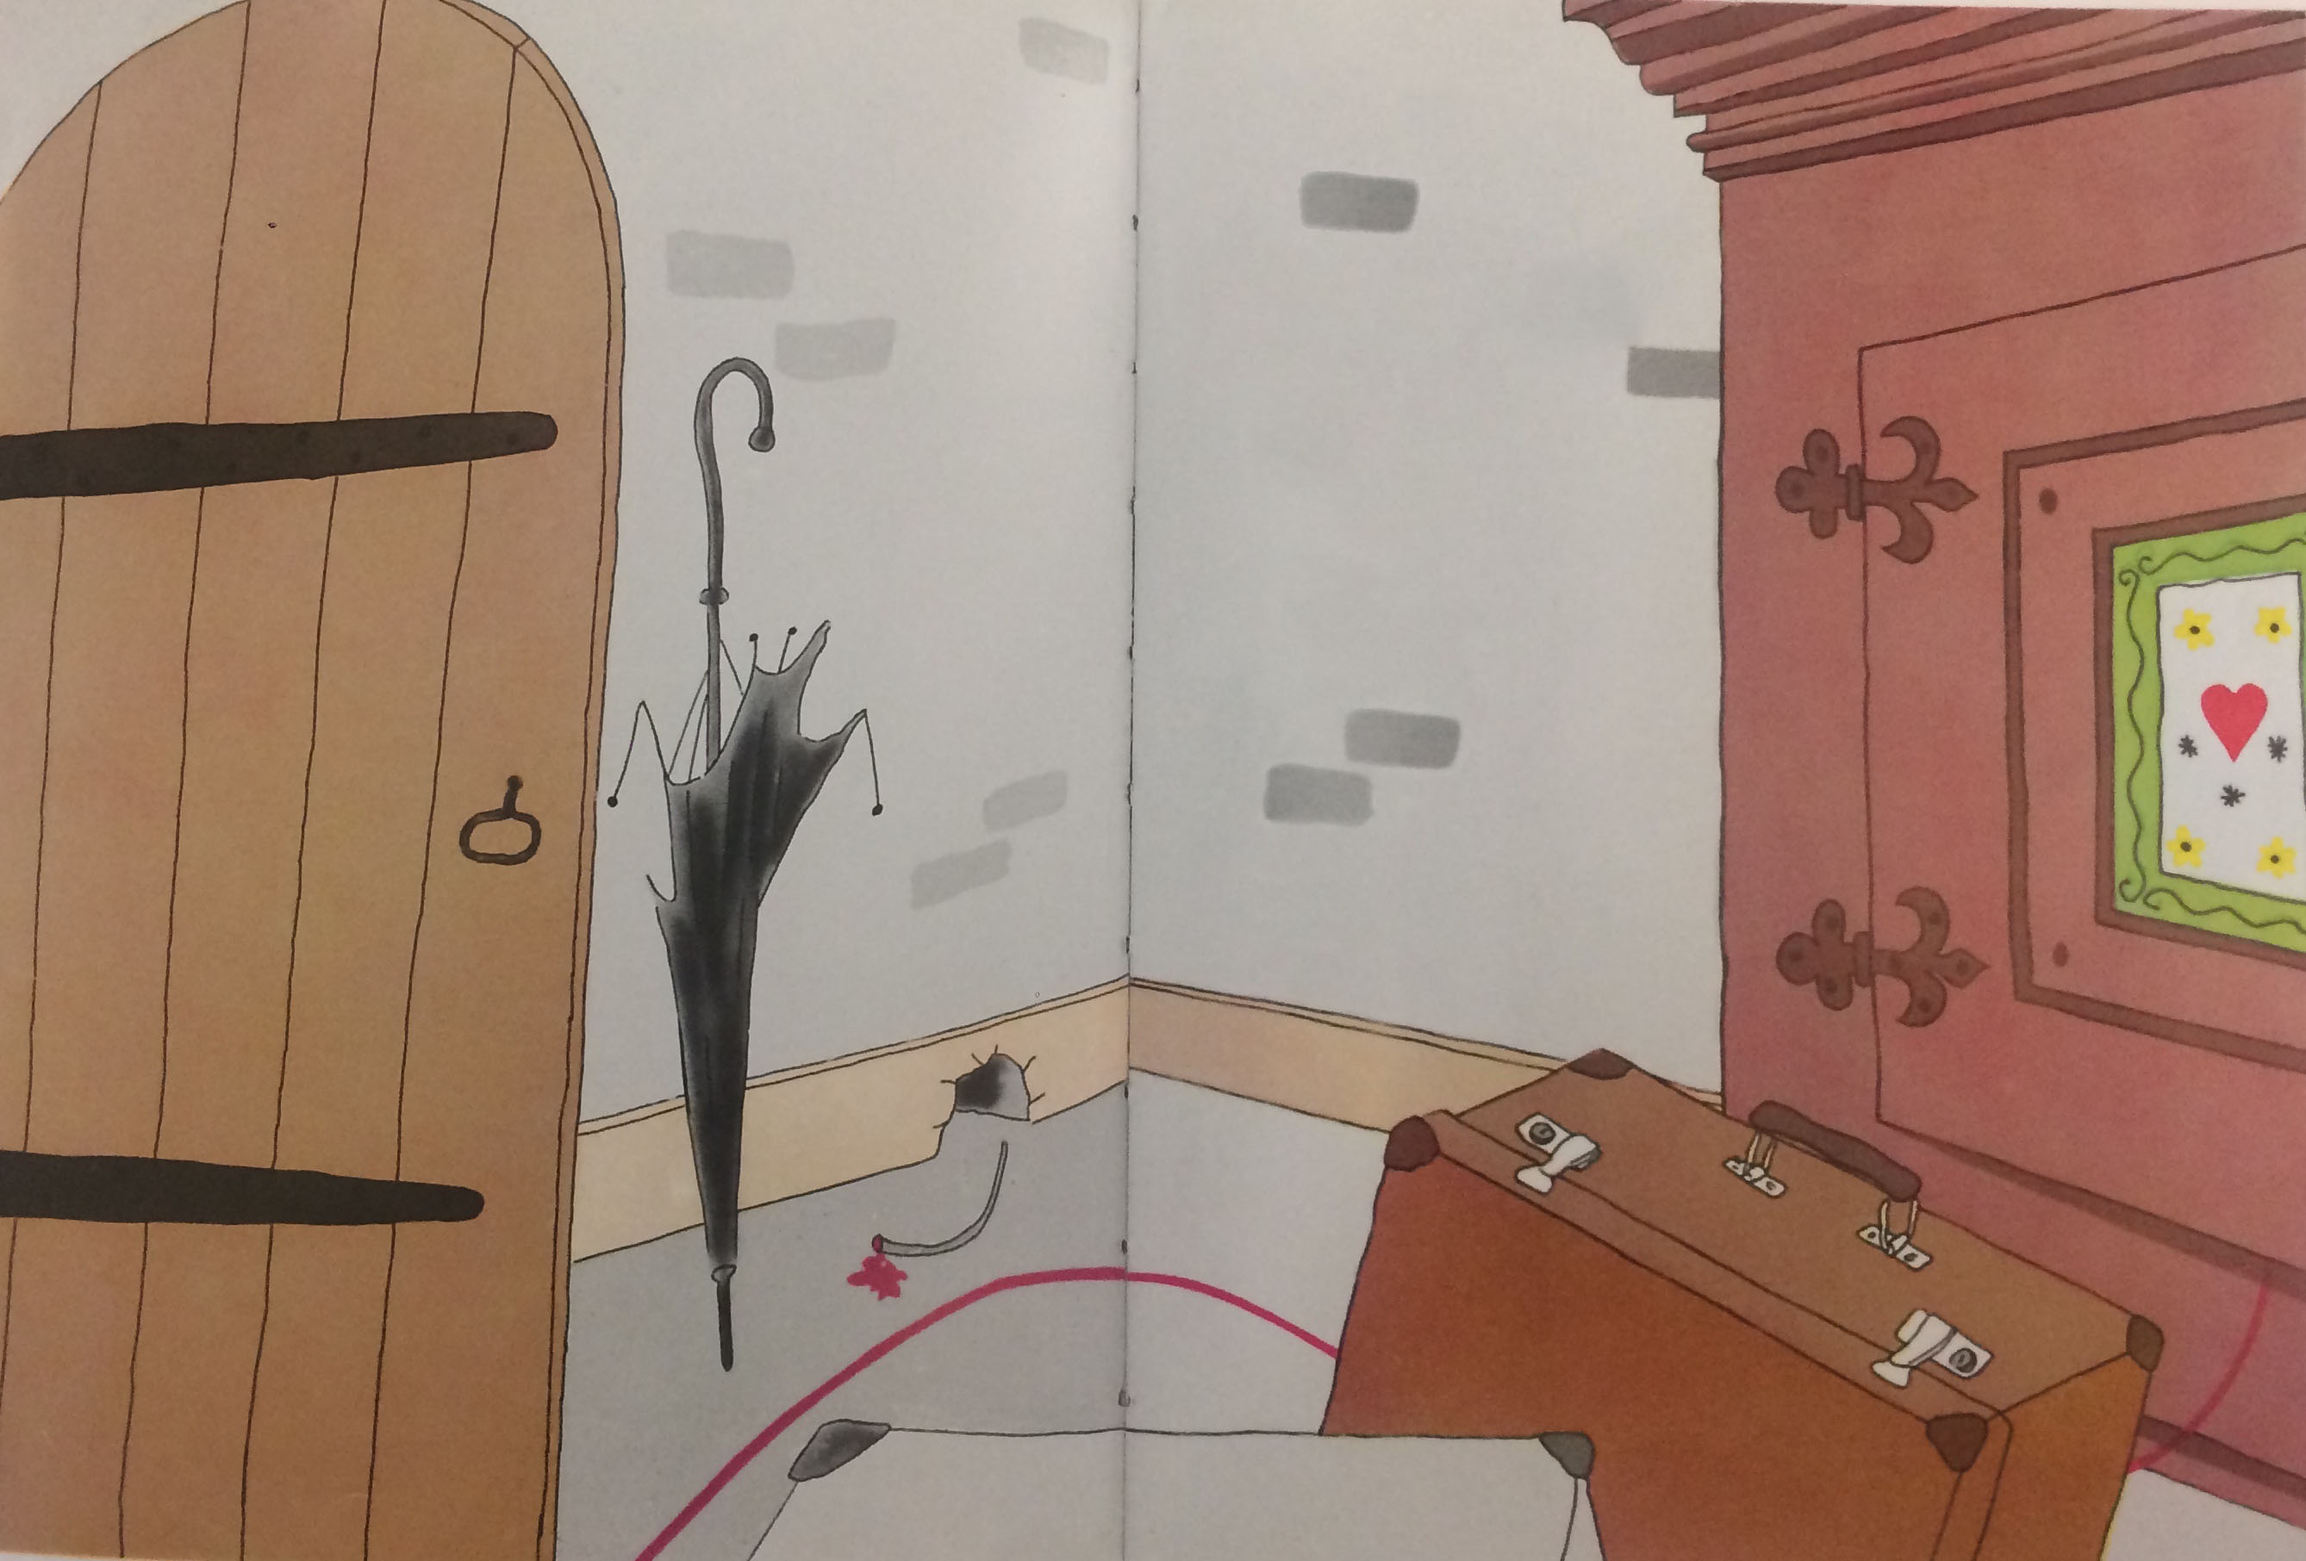
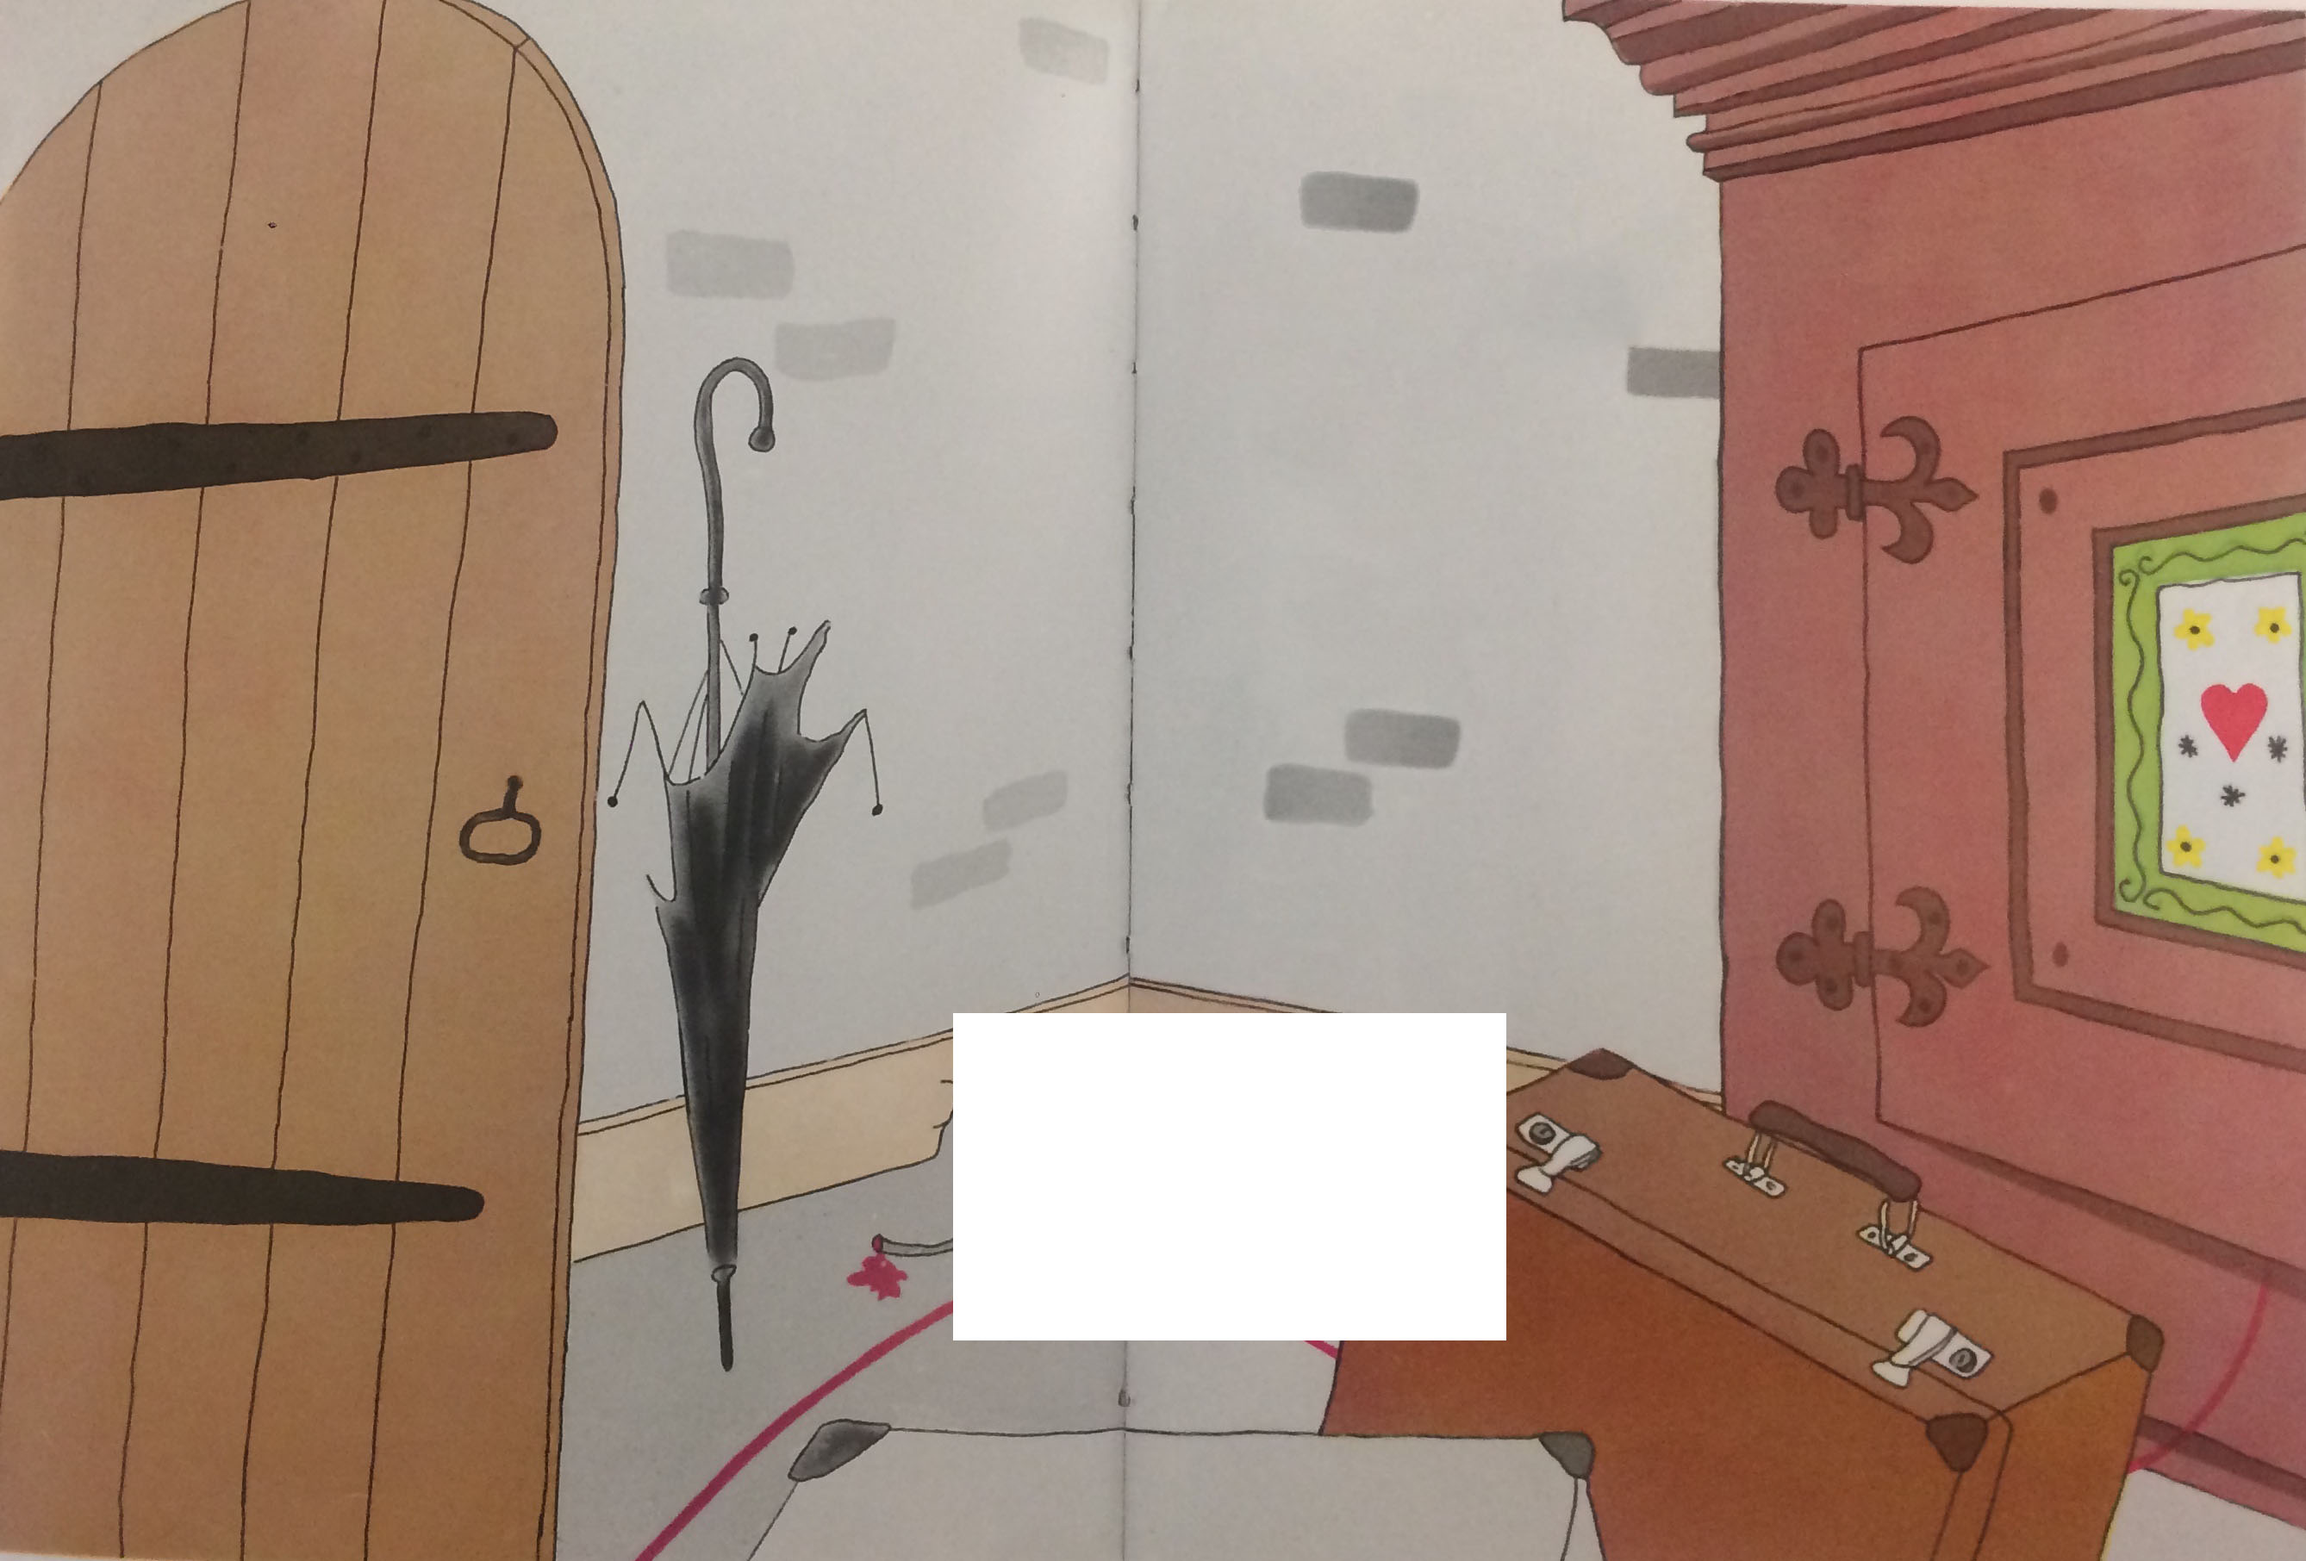
add animation for mouse, fix z-index

Changed region(s): [[0.4032, 0.649, 0.6513, 0.8653]]

diff --git a/style.css b/style.css
@@ -6,8 +6,8 @@
 div.page{
   position: relative;
 }
-div.page img{
-  z-index: 1;
+div.page .pageimg{
+  z-index: 10;
   display: block; /*Removes white border between images*/
   width: 100%;
 }
@@ -20,15 +20,15 @@ div.page#coverpage{
 /*Page2 livingroom*/
 div > #gungstol{ /*Positioning/Animation*/
   display: inline;
-  z-index: 2;
+  z-index: 20;
   width: 17%;
   position: absolute;
   left: 26%;
   top: 27%;
 
   animation-name: rocking;
-  animation-duration: 3s;
-  animation-timing-function: ease-in-out;
+  animation-duration: 2s;
+  animation-timing-function: cubic-bezier(0.5, 0, 0.5, 1);
   animation-iteration-count: infinite;
   transform-origin: 48% 100%; /*Set fixed position on the bottom for the rotate*/
   animation-direction: alternate;
@@ -40,14 +40,14 @@ div > #gungstol{ /*Positioning/Animation*/
 
 div > #pendel{ /*Positioning/Animation*/
   display: inline;
-  z-index: 2;
+  z-index: 20;
   width: 1%;
   position: absolute;
   left: 90.3%;
   top: 43.5%;
 
   animation-name: pendel;
-  animation-duration: 1s;
+  animation-duration: 2s;
   animation-timing-function: ease-in-out;
   animation-iteration-count: infinite;
   transform-origin: 48% 0%; /*Set fixed position on the bottom for the rotate*/
@@ -56,11 +56,11 @@ div > #pendel{ /*Positioning/Animation*/
 @keyframes pendel{ /*Animation*/
   from {transform: rotate(-7deg);}
   to {transform: rotate(3deg);}
-}
+}4
 
 div > #flame{ /*Positioning/Animation*/
   display: inline;
-  z-index: 2;
+  z-index: 20;
   width: 3%;
   position: absolute;
   left: 60.5%;
@@ -75,7 +75,7 @@ div > #flame{ /*Positioning/Animation*/
 /*Page6 upper stairs*/
 div > #fish{ /*Positioning/Animation*/
   display: inline;
-  z-index: 2;
+  z-index: 20;
   width: 4%;
   position: absolute;
   left: 82%;
@@ -90,7 +90,34 @@ div > #fish{ /*Positioning/Animation*/
   0% {;}
   20% {transform: rotateY(-90deg); left: 78%;}
   40% {transform: rotateY(-180deg); left: 84%;}
-  60% {transform: rotateY(180deg; left: 86%;}
+  60% {transform: rotateY(180deg); left: 86%;}
   80% {left: 83%;}
-  100% {transform: rotateY(-180deg; left: 82%;}
+  100% {transform: rotateY(-180deg); left: 82%;}
+}
+
+/*Page9 closeup */
+div > #mouseholecover{
+  display: inline;
+  z-index: 5;
+  width: 24.2%;
+  position: absolute;
+  left: 41.2%;
+  top: 64.8%;
+}
+div > #mouse{
+  display: inline;
+  z-index: 7;
+  width: 15%;
+  position: absolute;
+  left: 35%;
+  top: 66.5%;
+
+  animation-name: mouse;
+  animation-duration: 5s;
+  animation-timing-function: linear;
+  animation-iteration-count: 1;
+}
+@keyframes mouse{ /*Animation*/
+  from {left: 35%;}
+  to {left: 60%; top: 70%;}
 }

diff --git a/index.html b/index.html
@@ -12,62 +12,64 @@
   <main>
 
     <div id="coverpage" class="page">
-      <img src="img/1.png">
+      <img src="img/1.png" class="pageimg">
     </div>
 
     <div id="page1" class="page">
-      <img src="img/2.jpg">
+      <img src="img/2.jpg" class="pageimg">
     </div>
 
     <div id="page2" class="page">
       <img src="img/pendel.png" id="pendel">
       <img src="img/gungstol.png" id="gungstol">
-      <img src="img/3.jpg">
+      <img src="img/3.jpg" class="pageimg">
     </div>
 
     <div id="page3" class="page">
-      <img src="img/4.jpg">
+      <img src="img/4.jpg" class="pageimg">
     </div>
 
     <div id="page4" class="page">
-      <img src="img/5.jpg">
+      <img src="img/5.jpg" class="pageimg">
     </div>
 
     <div id="page5" class="page">
-      <img src="img/6.jpg">
+      <img src="img/6.jpg" class="pageimg">
     </div>
 
     <div id="page6" class="page">
       <img src="img/fish.png" id="fish">
-      <img src="img/7.jpg">
+      <img src="img/7.jpg" class="pageimg">
     </div>
 
     <div id="page7" class="page">
-      <img src="img/8.jpg">
+      <img src="img/8.jpg" class="pageimg">
     </div>
 
     <div id="page8" class="page">
-      <img src="img/9.jpg">
+      <img src="img/9.jpg" class="pageimg">
     </div>
 
     <div id="page9" class="page">
-      <img src="img/10.jpg">
+      <img src="img/running_mouse.gif" id="mouse">
+      <img src="img/mousehole_cover.jpg" id="mouseholecover">
+      <img src="img/10.jpg" class="pageimg">
     </div>
 
     <div id="page10" class="page">
-      <img src="img/11.jpg">
+      <img src="img/11.jpg" class="pageimg">
     </div>
 
     <div id="page11" class="page">
-      <img src="img/12.jpg">
+      <img src="img/12.jpg" class="pageimg">
     </div>
 
     <div id="page12" class="page">
-      <img src="img/13.jpg">
+      <img src="img/13.jpg" class="pageimg">
     </div>
 
     <div id="page13" class="page">
-      <img src="img/14.jpg">
+      <img src="img/14.jpg" class="pageimg">
     </div>
 
   </main>
